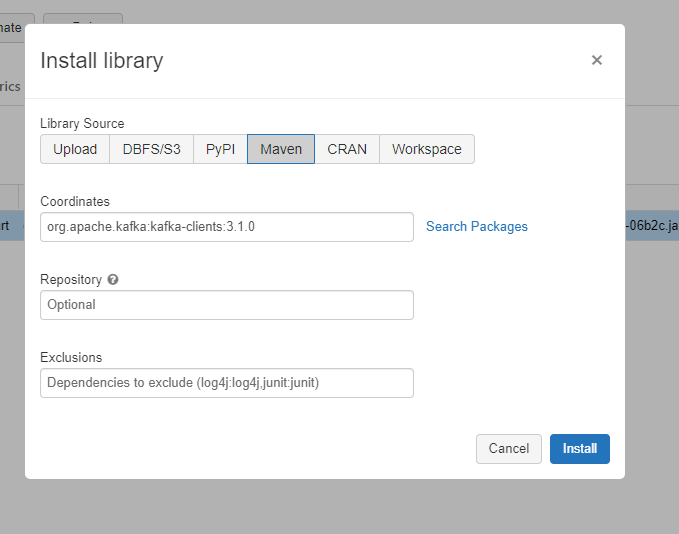
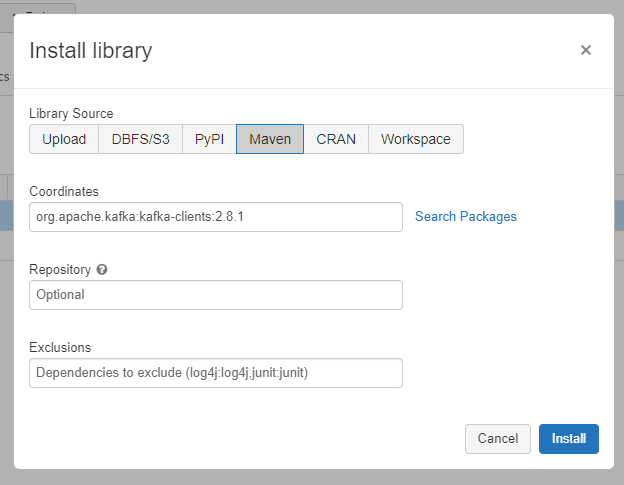
Consumer image updated with content

Changed region(s): [[0.0, 0.0, 1.0, 0.9897], [0.609, 0.4021, 0.8221, 0.4639], [0.8526, 0.0928, 0.883, 0.1237]]

diff --git a/index.html b/index.html
@@ -147,7 +147,7 @@
                                     <li>Select the <b>Maven</b> tab and click on <b>Search Package</b>. 
                                     <span class="image main"><img src="images/kafka-client.PNG" alt="" /></span>
                                     </li>
-                                    <li>In the <b>Search</b> field enter <b>kafka-clients</b> and select the latest version. 
+                                    <li>In <b>Search packages</b>, Change <b>Spark Packages</b> to <b>Maven Central</b> and in <b>search field</b> enter <b>kafka-clients</b>. Select <b>version 2.8.1</b>.
                                     <span class="image main"><img src="images/kafka-client2.PNG" alt="" /></span>
                                     </li>
                                     <li>They click on <b>Install</b>. 
